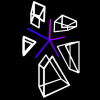
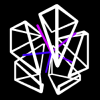
slice cube

diff --git a/2025/cake-slices/main.js b/2025/cake-slices/main.js
@@ -12,10 +12,10 @@ async function main() {
   const {hexLinesContext} = HexLinesContext.setupFullPageContext({is3d: true});
   const hexLines = hexLinesContext.createLines();
 
-  const box = createBox(Vec3.temp(200, 300, 100), 10, {r: 255, g: 255, b: 255});
+  const box = createBox(Vec3.temp(200, 200, 200), 10, {r: 255, g: 255, b: 255});
 
   while (true) {
-    const time = await new Promise(requestAnimationFrame);
+    const time = await new Promise(requestAnimationFrame) + 22000;
     Temp.reclaimAll();
     hexLines.clear();
 
@@ -24,22 +24,23 @@ async function main() {
       .exportToArrayBuffer(hexLines.transformMatrix);
 
     const position = Vec3.temp(
-      Math.cos(time / 800) * 150,
-      Math.cos(time / 900) * 150,
+      Math.cos(time / 800) * 100,
+      Math.cos(time / 900) * 100,
       0,
     );
     const direction = Vec3.temp(
-      0,
-      0,
+      Math.cos(time / 1500),
+      Math.cos(time / 1300),
       1,
     );
+    const planeBasis = PlaneBasis.temp(Vec3.temp(), direction);
     const angle = time / 1000;
     const cuts = [
-      Vec3.temp().setPolarXy(angle + TAU * 0 / 5),
-      Vec3.temp().setPolarXy(angle + TAU * 1 / 5),
-      Vec3.temp().setPolarXy(angle + TAU * 2 / 5),
-      Vec3.temp().setPolarXy(angle + TAU * 3 / 5),
-      Vec3.temp().setPolarXy(angle + TAU * 4 / 5),
+      Vec3.temp().setPolarXy(angle + TAU * 0 / 5).inplace3dPlanePosition(planeBasis),
+      Vec3.temp().setPolarXy(angle + TAU * 1 / 5).inplace3dPlanePosition(planeBasis),
+      Vec3.temp().setPolarXy(angle + TAU * 2 / 5).inplace3dPlanePosition(planeBasis),
+      Vec3.temp().setPolarXy(angle + TAU * 3 / 5).inplace3dPlanePosition(planeBasis),
+      Vec3.temp().setPolarXy(angle + TAU * 4 / 5).inplace3dPlanePosition(planeBasis),
     ];
 
     for (let i = 0; i < cuts.length; ++i) {
@@ -63,7 +64,7 @@ async function main() {
       position,
       direction,
       cuts,
-      distance: (1 + Math.cos(time / 1100)) / 2 * 100 + 20,
+      distance: (1 + Math.cos(time / 1100)) / 2 * 50 + 50,
     });
 
     for (const part of parts) {
